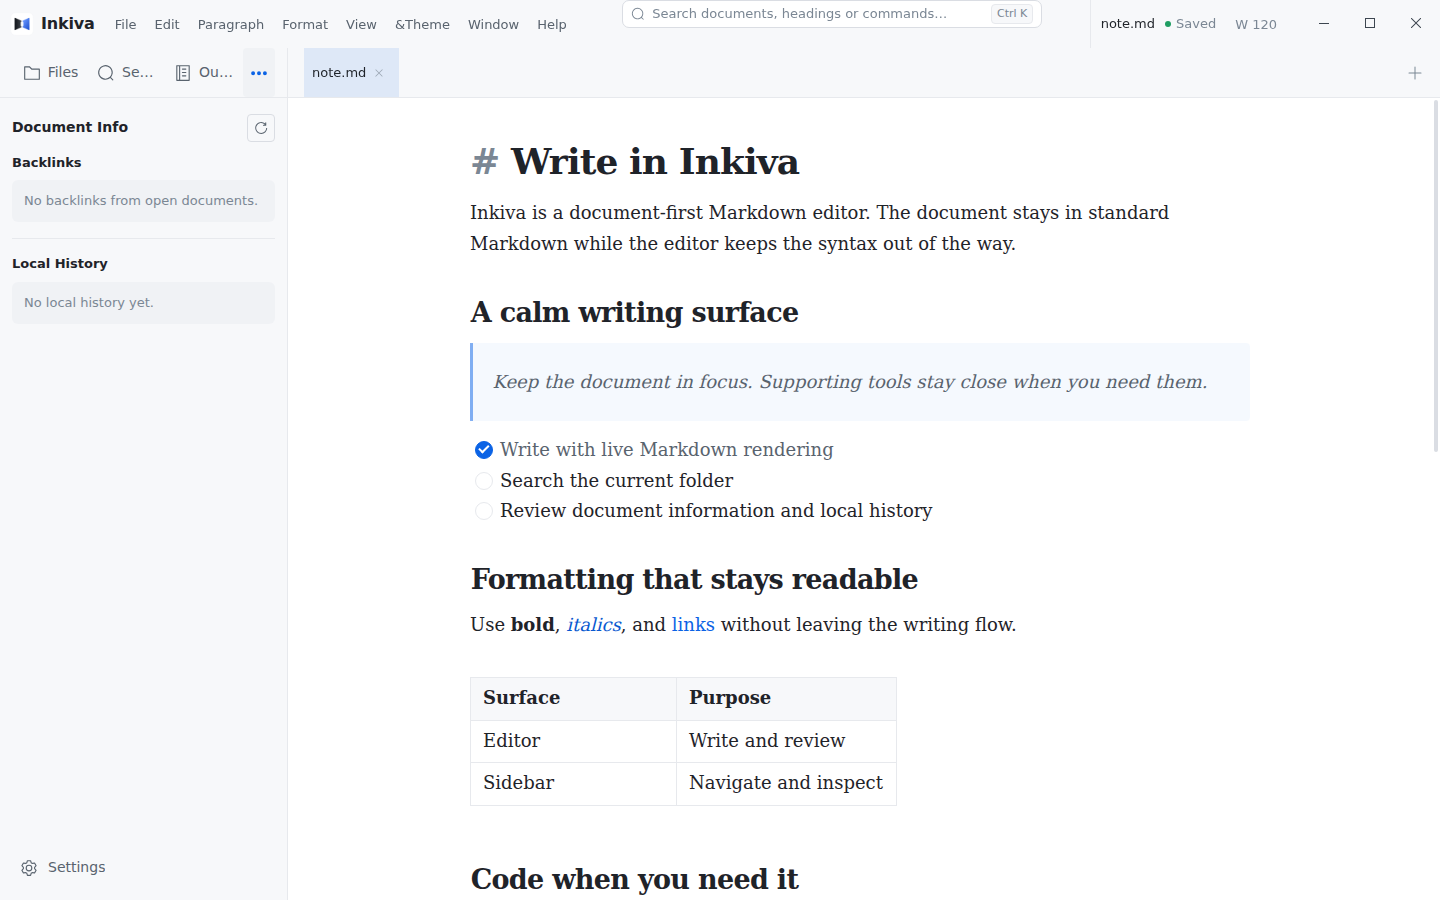
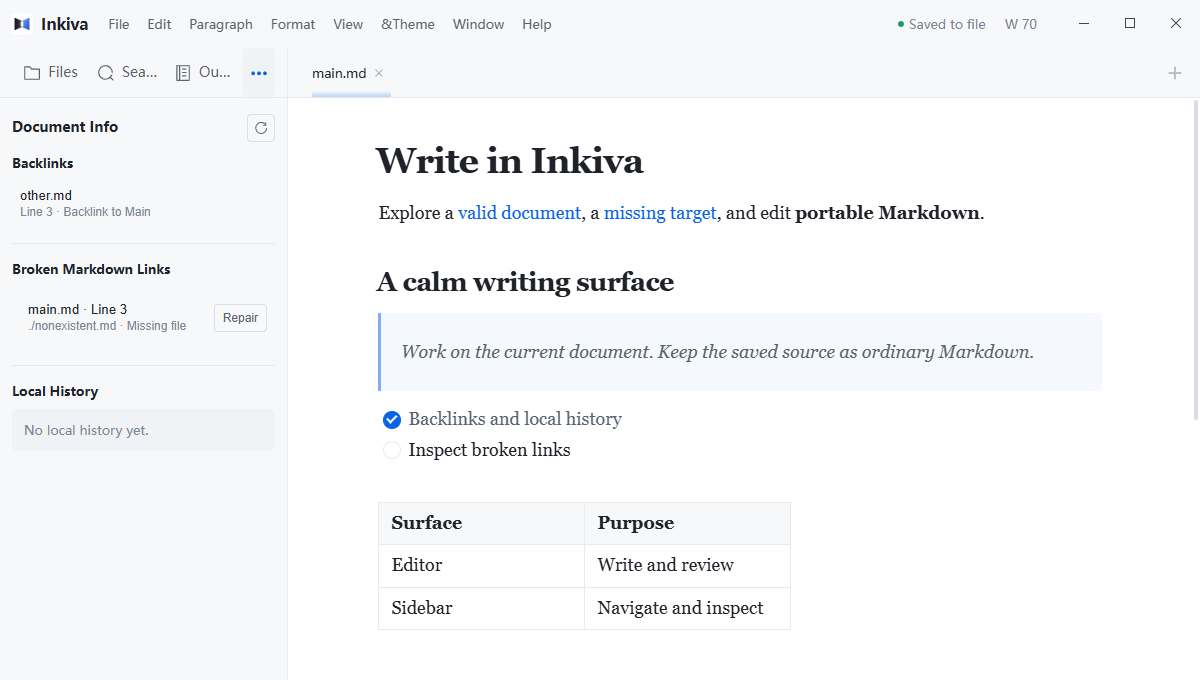
docs: refresh verified v0.6.0 screenshots and preserve issue #276 qualifications (#278)
Real packaged Windows v0.6.0 screenshots, repaired English/Chinese labels, and reproducible partial visual-acceptance evidence. Original content/screenshot head passed 11/11 PR CI; subsequent docs-only follow-up [skip ci] removes unsupported titlebar launcher claims and records virtualization observations. Issue #276 remains open for unfinished visual/manual checks.

diff --git a/docs/engineering/ISSUE-276-DESKTOP-SCREENSHOT-AUDIT.md b/docs/engineering/ISSUE-276-DESKTOP-SCREENSHOT-AUDIT.md
@@ -1,0 +1,58 @@
+# Issue #276 — v0.6.0 real-desktop screenshot and interaction audit
+
+- Audit date: 2026-10-30
+- Issue: [#276](https://github.com/Bulls1986/Inkiva/issues/276)
+- Status: **partial visual verification and proven-stale screenshot repair; DO NOT close issue until the remaining acceptance items pass**
+- Target source branch: `develop@d84828bd760b9672c1b85afc39f0887c66456ef7`
+- Reviewed desktop platform: Windows x64, English UI (isolated `preferences.json` language `en-US`), real installed Inkiva **v0.6.0** executable.
[2 lines of base64/hex data omitted]
+- Official v0.6.0 Git tag commit: `a01799457582a30a84a3a23d4dcdf84de29c53cb` (repository reference, **not** claimed as embedded provenance of the installed executable).
+- Capture: **Playwright `_electron.launch` against the actual installed `inkiva.exe`**, not browser imitation. Temporary per-test profile and Markdown fixture files under the Windows user's OS temporary directory, separate from the user's real application profile.
+- Captures: WebContents screenshots, **1200×800** for the editing window and **950×650** for Preferences. Selected guide assets `inkiva-interface.png` and `inkiva-document-info.png` are cropped vertically to 680 px to exclude unrelated test-fixture content; no interface elements, states or text were synthesized or retouched.
+
+## Historical comparison and actual captures
+
+The original `inkiva-interface.png` and `inkiva-document-info.png` screenshots were created before the v0.6 editing/navigation work. Both show an obsolete top titlebar search field. The original Document Info image also lacks the current **Broken Markdown Links** subsection. These changes were verified by comparing the old repository screenshots with real v0.6.0 captures.
+
+Updated/replaced only the verified screenshots:
+
+| Path under `packages/website/public/docs/assets/` | Real source frame | Result |
+| --- | --- | --- |
+| `inkiva-interface.png` | isolated v0.6.0 English editor / Outline | updated (old titlebar no longer matches) |
+| `inkiva-files.png` | folder opened and `main.md` selected | updated (folder tree/tab are now current) |
+| `inkiva-document-info.png` | indexed workspace, `Backlinks`, `Broken Markdown Links` and `Local History` | updated (missing subsection in old image) |
+| `inkiva-settings.png` | real Preferences / General window | updated from actual current window |
+| `inkiva-broken-link-repair.png` | user clicked visible Repair; genuine `Insert link` dialog | added |
+| `inkiva-table-context.png` | actual right-click on Markdown table cell | added |
+| `inkiva-table-hardbreak.png` | actual in-editor result after Shift+Enter, **not a disk-save claim** | added |
+
+Guide wording in English and Simplified Chinese was adjusted to reflect observable UI: the clickable broken-link row has the accessible action **Locate source occurrence** and no separate visible **Locate** label; a visible **Repair** button launches the **Insert link** dialog with explicit Cancel/OK.
+
+## Executed interaction evidence
+
+1. **Packaged app launch:** actual installed Windows `inkiva.exe` reports `package.json.version=0.6.0`; started from separate temporary profile. Opened arbitrary Markdown files via CLI without editing the user's own documents; Playwright `firstWindow` returned the real `file://.../app.asar/out/renderer` Electron window.
+2. **Files / Outline / Search / Settings:** clicked actual sidebar buttons and captured the resulting WebContents. Settings opened a separate Inkiva Preferences window; captured actual General/Auto Save UI. Search was visited, but a meaningful search-result state has **not** been claimed.
+3. **Indexed Backlinks and broken links:** opening a folder (not merely a single document) and then its Markdown file produced a real backlink from `other.md` and a missing link `./nonexistent.md · Missing file`. This demonstrates that the workspace context matters; a single-file run showed the explicit **partial/unverified** state instead of a false complete scan. Clicked the row's **Locate source occurrence** action then the **Repair** button, which opened **Insert link / Destination / Cancel / OK**. No repair was confirmed; no unreviewed file mutation was made.
+4. **Table context and hard break:** actual right-click displayed **Insert Row Above**, **Insert Row Below**, **Insert Column Left**, **Insert Column right**, **Delete Row**, **Delete Column**, **Delete Table**. `Shift+Enter` rendered `A<br>` followed by a second line. Playwright DOM selection still had a connected text anchor, and its caret rectangle was `x=498.58, y=261.39, width=0, height=21` in that capture. This is **editor-state evidence**, not full save/reopen/round-trip correctness proof.
+5. **Save-state limitation:** after the table edit, the application displayed **Protected in Inkiva only**, and an immediately inspected disk fixture still had its previous content. Therefore **do not claim the hard-break edit persisted on disk**. A later package E2E may qualify persistence separately.
+6. **Missing-image state:** an image pointing to a nonexistent file displayed **Load Image Failed** in the real editor. The Choose Image failure/relink/retry workflow was **not exercised to completion**, so failure feedback and no-placeholder correctness remain unverified here.
+7. **Command palette / export:** attempted the published `Ctrl+Shift+P` shortcut with focus in Document Info and, separately, after clicking editor content; neither capture displayed a new command launcher. This does **not** by itself prove product failure (shortcut preset/command availability may differ). The previous top-titlebar launcher in the old screenshot is visually absent from the inspected Windows v0.6.0 build. Removed unverified clickable-titlebar and shortcut promises from the two English introductory guides; retain `inkiva-command-palette.png` as an unreferenced historical asset until correctly verified. The Export dialog was not opened in this stage.
+8. **Virtualized Outline >300 headings:** a genuine installed Windows v0.6.0 run opened a **340-heading fixture**. The observed `.toc-virtualized-tree` scroller had `scrollHeight=11594` and `clientHeight=556`, while the main editor scroller had `scrollHeight=37092`, `clientHeight=702`; at the start, the first section was mounted and Section 340 was not. After scrolling the outline to its end, mounted tree rows included **Section 333 through Section 340**, while editor scroll remained `0`. This is direct proof of a mounted virtualized tail but **not** proof of keyboard navigation or focus ownership: one attempt did not obtain row focus and a follow-up focused-keyboard execution was blocked. The issue's keyboard and no-jump acceptance remains open.
+9. **macOS differences:** no macOS machine was used, so command-modifier and native menu differences remain to be reviewed. The Issue accepts Windows and/or macOS capture for primary screenshots, not fabricated macOS evidence.
+
+## Remaining acceptance / handoff
+
+Issue #276 **must remain open** until the following are substantiated with real application results:
+
+- Revalidate the actual command launcher and Export UI and replace their screenshots only if proven stale.
+- Inspect the Settings/Export and other surviving website assets not yet compared against a current UI.
+- Complete a genuinely executed >300-heading virtual Outline keyboard focus/navigation/scroll ownership check.
+- Complete missing-image relink/failure/retry and show no stranded loading placeholder.
+- Verify table Shift+Enter **saved and reopened** with caret behavior, distinguish disk save from recovery-only status.
+- Verify the target platform modifier labels (Windows here; macOS when available), and reconcile Chinese/English guide captions.
+- Run final **52-page documentation gate**, website test/build, full applicable PR CI and post-merge website deployment. Record exact head/merge/deploy results before calling this PR merged.
+
+## Audit and learning notes
+
+Don't infer fidelity from the presence of PNG files or a green build. The old screenshots preserved a now-removed top search field and omitted broken-document-link diagnostics. Always test link/backlink panels with a genuinely opened folder, otherwise partial results can be mistaken for a product defect. The document save-status indicator has independent semantics: **Protected in Inkiva only** is not a disk write. Keep source Markdown, capture conditions, screenshots and exact observed UI labels tied to the installed binary hash. Do not make a mockup or an AI-generated screenshot and call it an Electron capture.

diff --git a/packages/website/content/docs/end-user/EDITING.md b/packages/website/content/docs/end-user/EDITING.md
@@ -6,7 +6,7 @@ Inkiva renders Markdown as you work while keeping the saved document as a normal
 
 ## Text selection and formatting
 
-Select text with the mouse, double-click a word, or use <kbd>Shift</kbd>+<kbd>Arrow Keys</kbd>. Use the **Format** menu or the available keyboard shortcuts to apply bold, italic, underline, strikethrough, inline code, inline math, links, images, and clear formatting. The command launcher provides a searchable route to the same actions.
+Select text with the mouse, double-click a word, or use <kbd>Shift</kbd>+<kbd>Arrow Keys</kbd>. Use the **Format** menu or the available keyboard shortcuts to apply bold, italic, underline, strikethrough, inline code, inline math, links, images, and clear formatting. The editor's **Format** menu provides the supported formatting actions.
 
 Inkiva updates the rendered result as you edit. The active appearance controls the writing surface and syntax colors; editor font, size, line height, and width are configured in **Preferences → Editor**.
 
@@ -14,9 +14,7 @@ Inkiva updates the rendered result as you edit. The active appearance controls t
 
 In an empty paragraph, type `/` to open the quick-insert menu. Search by continuing to type, navigate with the arrow keys, and press <kbd>Enter</kbd> to insert the selected block. The menu can create headings, paragraphs, lists, task lists, quotes, tables, code blocks, front matter, thematic breaks, and supported diagram blocks.
 
-For commands that are not visible in the editor, open the titlebar command launcher:
-
-![Inkiva command launcher for searching documents, headings, and commands](../assets/inkiva-command-palette.png)
+To locate a document, use **Quick Open** (<kbd>CmdOrCtrl</kbd>+<kbd>P</kbd>). Use the application's **Paragraph**, **Format** and **View** menus for their respective editing commands.
 
 The paragraph menu also exposes actions such as **Turn Into**, duplicate, create paragraph, and delete paragraph. These actions operate on the current block or selection.
 
@@ -32,6 +30,12 @@ The editor can close brackets, quotes, and Markdown delimiters as you type. Thes
 
 Use the quick-insert menu or **Paragraph → Table** to create a Markdown table. Edit its cells directly; use the context menu or the table controls for deliberate row/column operations and alignment. Inkiva is a Markdown editor, not a spreadsheet: selecting content and deleting it is not an implicit request to remove rows or columns. The built-in table editing behavior preserves standard Markdown, Undo/Redo and Source/WYSIWYG round-trips. If you need a hard line break inside a cell, use <kbd>Shift</kbd>+<kbd>Enter</kbd>; the saved Markdown uses an HTML `<br>` break.
 
+![Actual Windows v0.6.0 table-cell context menu showing explicit row/column actions](../assets/inkiva-table-context.png)
+
+The following screenshot captures the live editor immediately after a hard break; **it is not evidence of a completed disk save**. Save and verify the file when testing document persistence.
+
+![Actual Windows v0.6.0 table cell immediately after Shift+Enter with an in-editor hard break and visible caret](../assets/inkiva-table-hardbreak.png)
+
 ## Images
 
 Insert standard Markdown images with `![]()`, the image command, drag/drop or paste. Depending on **Preferences → Image**, you can keep a local path, copy assets to a relative folder, or use an optional [PicGo uploader](IMAGE_UPLOADER_CONFIGRATION.md). Existing image controls support replacement/relink, alt/title editing and drag resizing. If an import or replacement fails, the original Markdown should remain available for correction or retry. See [Image support](IMAGES.md) for the complete placement and recovery behavior.
@@ -42,7 +46,7 @@ Insert standard Markdown images with `![]()`, the image command, drag/drop or pa
 
 **Navigate:** an ordinary click in an editable link places the caret; it does not automatically follow the destination. To open the link, use <kbd>Ctrl</kbd>+click on Windows or <kbd>Command</kbd>+click on macOS, or the link tool's explicit jump action. A standard relative `.md` or `.markdown` link may include a heading fragment, for example `[Plan](./plan.md#milestones)`. External URLs retain their separate guarded-open behavior.
 
-**Inspect and repair:** open **More → Document Info** to inspect **Backlinks** and broken local document links. Select a backlink to visit its exact source occurrence. For a missing document target, first choose **Locate** to inspect the source, then **Repair** to select a replacement using the link dialog; **Undo** reverses a completed single-document repair. A cancelled repair, inaccessible file or outdated index result must not silently change a Markdown file.
+**Inspect and repair:** open **More → Document Info** to inspect **Backlinks** and broken local document links. Select a backlink to visit its exact source occurrence. For a missing document target, click its row to **locate the source occurrence** (accessible label **Locate source occurrence**), then click the visible **Repair** button to open the **Insert link** dialog. **Cancel** is non-mutating; **Undo** reverses a completed single-document repair. A cancelled repair, inaccessible file or outdated index result must not silently change a Markdown file.
 
 **Rename or move:** file operations and link repair are separate decisions. If Inkiva offers a preview of affected references, review the listed paths and choose **Update**, **Keep unchanged**, or **Cancel**. Keeping or cancelling link repair does **not** roll back a move that already succeeded. Work across multiple files may produce partial results; inspect any reported recovery/conflict details rather than assuming one editor Undo reverses every disk operation.
 
@@ -50,11 +54,11 @@ The inline tools also offer emoji picking and link actions when available.
 
 ## Focus and typewriter modes
 
-Focus mode fades surrounding paragraphs so the current line remains prominent. Typewriter mode keeps the active line near the center of the editor. In the default Typora shortcut style, use <kbd>F8</kbd> for focus mode and <kbd>F9</kbd> for typewriter mode. Their commands are also available under **View** and in the command launcher.
+Focus mode fades surrounding paragraphs so the current line remains prominent. Typewriter mode keeps the active line near the center of the editor. In the default Typora shortcut style, use <kbd>F8</kbd> for focus mode and <kbd>F9</kbd> for typewriter mode. Their commands are also available under **View**.
 
 ## File encoding and line endings
 
-Inkiva can guess a file's encoding when it opens. UTF-8 is the packaged default; the default encoding and automatic detection can be changed in **Preferences → Editor**. The current encoding and line-ending commands are available through the command launcher.
+Inkiva can guess a file's encoding when it opens. UTF-8 is the packaged default; the default encoding and automatic detection can be changed in **Preferences → Editor**. Use the application menus and editor preferences to inspect the available encoding and line-ending controls.
 
 ## Find and replace
 

diff --git a/packages/website/content/docs/end-user/BASICS.md b/packages/website/content/docs/end-user/BASICS.md
@@ -6,7 +6,7 @@ Inkiva is a document-first Markdown editor. It opens ordinary CommonMark/GFM fil
 
 ![Inkiva welcome surface with Recent Documents, New File, and Open file](../assets/inkiva-default.png)
 
-The titlebar command launcher opens search for documents, headings, and commands. You can click it or press <kbd>CmdOrCtrl</kbd>+<kbd>Shift</kbd>+<kbd>P</kbd>. In an empty paragraph, type `/` to open the quick-insert menu; choose an item to turn that paragraph into a heading, list, quote, table, or another supported block.
+Use **Search** in the sidebar for workspace content, or **Quick Open** (<kbd>CmdOrCtrl</kbd>+<kbd>P</kbd>) to find documents in the opened folder. In an empty paragraph, type `/` to open the quick-insert menu; choose a heading, list, quote, table, or another supported block.
 
 ## Interface
 
@@ -17,11 +17,11 @@ The optional sidebar is organized around the current document and folder:
 - **Files** shows the opened folder tree and its **Opened Files** subsection.
 - **Search** searches the opened folder with filters for the search mode.
 - **Outline** shows headings from the selected document.
-- **More → Document Info** provides **Backlinks** and **Local History**.
+- **More → Document Info** provides **Backlinks**, **Broken Markdown Links**, and **Local History**. The More control is an icon with the accessible name **Backlinks and Local History** on the Windows v0.6.0 UI.
 
 Use the sidebar controls or **View → Toggle Sidebar**. The default Typora shortcut is <kbd>CmdOrCtrl</kbd>+<kbd>Shift</kbd>+<kbd>L</kbd>; custom keybinding styles can change it. The `openedFilesInSidebar` preference controls the Opened Files subsection.
 
-![Inkiva editor with the Outline sidebar, document tab, and writing surface](../assets/inkiva-interface.png)
+![Actual Windows v0.6.0 Inkiva editor with the Outline sidebar, document tab, and Markdown writing surface](../assets/inkiva-interface.png)
 
 The Files, Search, and Document Info panels are shown below.
 
@@ -29,17 +29,15 @@ The Files, Search, and Document Info panels are shown below.
 
 ![Inkiva Search sidebar for searching the opened folder](../assets/inkiva-search.png)
 
-![Inkiva Document Info sidebar with Backlinks and Local History](../assets/inkiva-document-info.png)
+![Actual Windows v0.6.0 Document Info sidebar showing a backlink, a missing Markdown target and Local History](../assets/inkiva-document-info.png)
 
 ### Tabs and split view
 
 Each open document can appear in a tab. Drag tabs to reorder them, use the tab context menu for file actions, or hide the tab bar and work from the sidebar's **Opened Files** list. **View → Split Editor** opens a second document pane; use the pane controls to choose which pane is the active editor.
 
-### Quick Open and the command launcher
+### Quick Open
 
-**Quick Open** (<kbd>CmdOrCtrl</kbd>+<kbd>P</kbd>) finds Markdown files in the opened folder and already-open documents. The command launcher searches commands, headings, and documents from one place.
-
-![Inkiva command launcher with document, heading, and command results](../assets/inkiva-command-palette.png)
+**Quick Open** (<kbd>CmdOrCtrl</kbd>+<kbd>P</kbd>) finds Markdown files in the opened folder and already-open documents. The **Search** sidebar supports in-folder content searching, while **Outline** navigates headings in the active document.
 
 ### Editor modes
 
@@ -76,8 +74,10 @@ A regular click within a link keeps you in editing mode. To **follow** it delibe
 Open the **More → Document Info** sidebar for the active document:
 
 - **Backlinks** shows other Markdown documents that link here, including saved workspace files not currently open in tabs. Choosing a backlink goes to its source link occurrence.
-- **Broken local links** reports missing relative `.md`/`.markdown` file targets in the checked workspace scope. A missing file and a file that cannot be verified (for example, due to permissions or partial indexing) are different states.
-- Use **Locate** to inspect the original link in its document; use **Repair** only when you deliberately want to select a replacement through the existing link-editing flow. Cancelling a repair leaves the Markdown unchanged.
+- **Broken Markdown Links** reports missing relative `.md`/`.markdown` file targets in the checked workspace scope. A missing file and a file that cannot be verified (for example, due to permissions or partial indexing) are different states.
+- Click the broken-link entry to locate its source occurrence (accessible name **Locate source occurrence**); this is not a separate text-labeled Locate button. Click the visible **Repair** button to open the standard **Insert link** confirmation dialog. The dialog does not silently replace the target; **Cancel** leaves the Markdown unchanged.
+
+![Actual Windows v0.6.0 Insert link confirmation dialog opened from a broken link's Repair button](../assets/inkiva-broken-link-repair.png)
 
 Results depend on the selected folder and the index's current state. An incomplete/unreadable scan is not proof that there are no links or no problems. External websites, image references, reference-style links, and missing heading fragments are **not** classified as broken files by this workspace report.
 

diff --git a/packages/website/content/docs/README.md b/packages/website/content/docs/README.md
@@ -4,7 +4,7 @@ Welcome to the end-user documentation of Inkiva, a document-first Markdown edito
 
 Inkiva works with ordinary CommonMark/GFM files and folders. Navigation, backlinks, local history, and recovery are assistance around the document — not a separate workspace format.
 
-The current desktop interface keeps the document at the center: a compact titlebar, optional navigation sidebar, tabs, and a focused writing surface. The screenshots in this guide are from the current Inkiva desktop application; labels can vary with the selected language and operating system.
+The current desktop interface keeps the document at the center: a compact titlebar, optional navigation sidebar, tabs, and a focused writing surface. The screenshot set is being reconciled against real desktop builds in [Issue #276](https://github.com/Bulls1986/Inkiva/issues/276). Screenshots of the editor, Files, Document Info and Settings have been refreshed from a genuine Windows v0.6.0 English interface; other retained images may still reflect an earlier UI. Labels vary by language and operating system.
 
 ![Inkiva desktop interface with the Outline sidebar and Markdown editor](assets/inkiva-interface.png)
 

diff --git a/docs/engineering/README.md b/docs/engineering/README.md
@@ -17,6 +17,7 @@ This directory contains cross-cutting engineering audits and evidence records. O
 - [D04 — User guide modernization](DOCS-04-USER-GUIDES.md) — merged v0.6 links, images, tables and recovery workflows; screenshot review handoff.
 - [D06 — Public documentation quality gate](DOCS-06-DOCS-QUALITY-GATE.md) — merged and deployed link/anchor/asset verification with 9 targeted tests and 11/11 PR CI.
 - [D05 — Chinese user documentation](DOCS-05-CHINESE-DOCS.md) — Chinese user routes, source/navigation parity, localization/SEO gates and legacy translation disposition.
+- [Issue #276 — Windows v0.6.0 screenshot and interaction review](ISSUE-276-DESKTOP-SCREENSHOT-AUDIT.md) — genuine packaged Electron capture evidence, refreshed/stale assets, partial acceptance and remaining visual/manual qualifications.
 - [GEO-01 — Public baseline audit](GEO-01-PUBLIC-BASELINE-AUDIT.md)
 - [GEO-02 — AI discovery baseline](GEO-02-AI-DISCOVERY-BASELINE.md)
 - [GEO-03 — Entity content implementation](GEO-03-ENTITY-CONTENT-IMPLEMENTATION.md)
